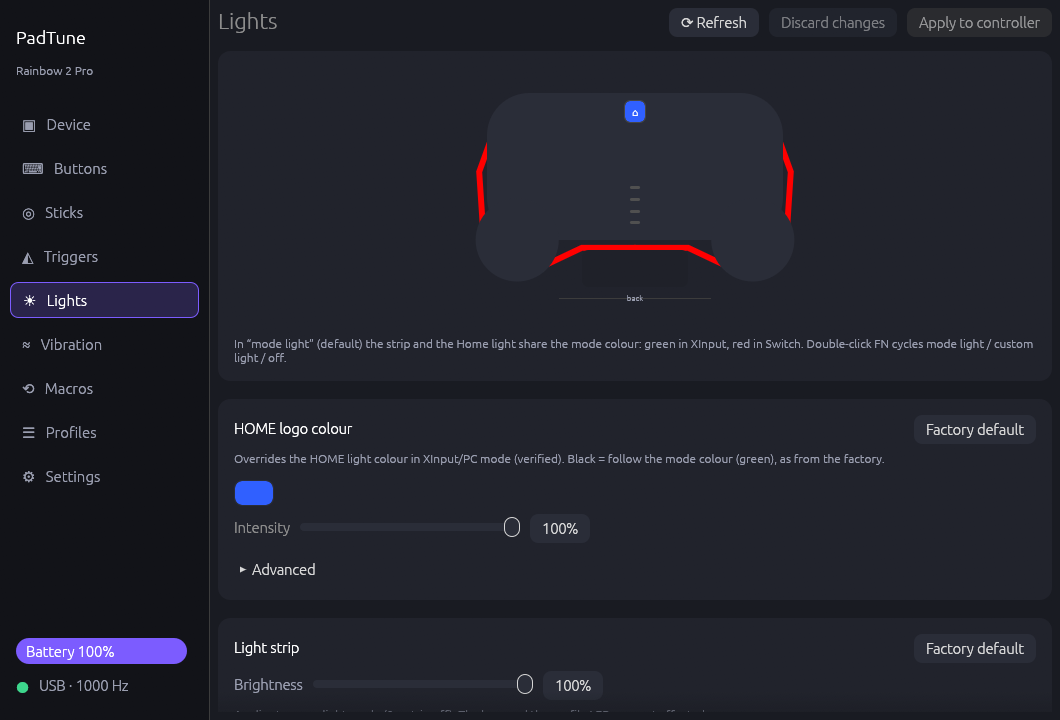
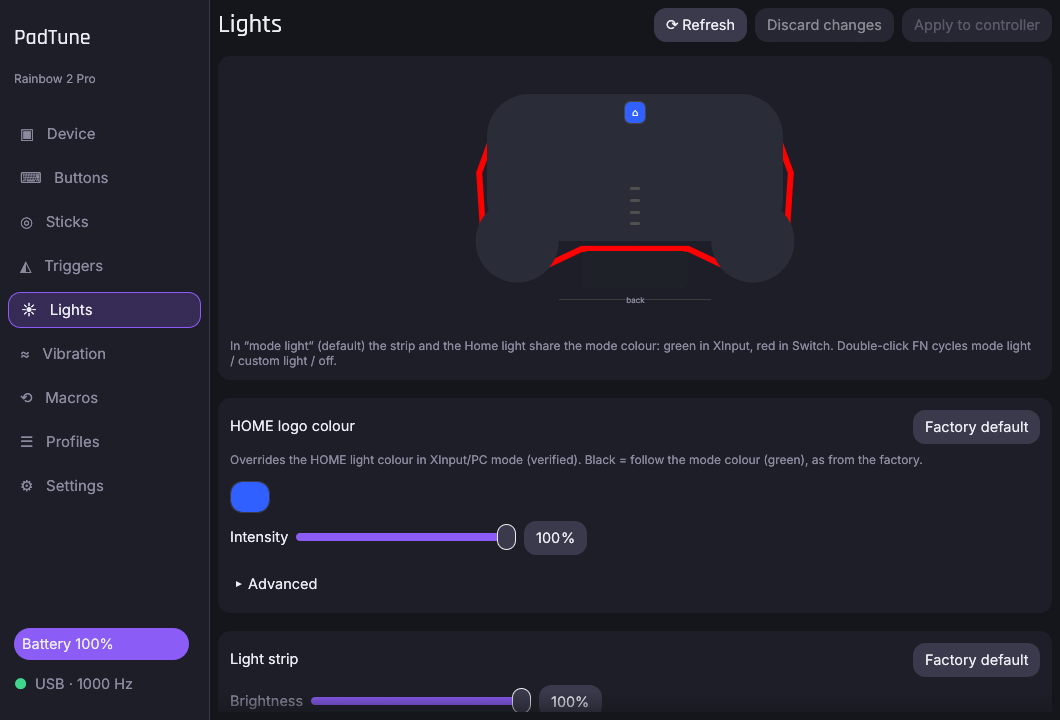
release: v0.2.0

diff --git a/README.it.md b/README.it.md
@@ -24,7 +24,7 @@ l'interfaccia di configurazione del controller, quindi ogni impostazione resta
 | **Dispositivo** | Modello, firmware, seriale, batteria, cavo USB o dongle 2.4G, test tasti (tutti, anche M1/M2, FN e i tasti frontali), backup/ripristino, impostazioni di fabbrica. |
 | **Profili** | Salva profili con nome e applicali con un clic — vengono inviate solo le parti cambiate. |
 | **Funzioni del controller** | Cosa fa ogni scorciatoia integrata (TURBO, Mapping, MACRO, Configuration, combinazioni con FN, calibrazione, cambio modalità), dal manuale ufficiale. |
-| **Desktop** | Icona nella barra di sistema, avvio con il sistema, istanza unica, inglese e italiano. |
+| **Desktop** | Icona nella barra di sistema, avvio con il sistema, istanza unica, inglese e italiano, segue il tema di sistema (chiaro e scuro). |
 
 ## Compatibilità
 
@@ -106,6 +106,7 @@ padtune monitor 30                # test tasti: stampa ogni pressione
 | `PADTUNE_CONFIG_DIR` | Usa un'altra cartella per impostazioni e profili |
 | `PADTUNE_STATE` | Usa un altro file di stato (ultima configurazione applicata) |
 | `PADTUNE_DEMO=1` | GUI con un Rainbow 2 Pro simulato, senza accesso USB |
+| `PADTUNE_THEME=light\|dark` | Forza il tema chiaro o scuro invece di seguire il sistema |
 | `PADTUNE_SCREENSHOTS=cartella` | Salva uno screenshot di ogni scheda in ogni lingua, poi esce |
 | `PADTUNE_TEST_CLOSE_AFTER=s` | Chiude la finestra dopo `s` secondi (test della barra di sistema) |
 

diff --git a/README.md b/README.md
@@ -24,7 +24,7 @@ works on any PC or console afterwards.
 | **Device** | Model, firmware, serial, battery, USB cable vs 2.4G dongle, key test (every button including M1/M2, FN and the front keys), backup/restore, factory settings. |
 | **Profiles** | Save named profiles and apply them with one click — only the parts that changed are sent. |
 | **Controller functions** | What every on-board shortcut does (TURBO, Mapping, MACRO, Configuration, FN combos, calibration, mode switch), from the official manual. |
-| **Desktop** | Tray icon, start with the system, single instance, English and Italian. |
+| **Desktop** | Tray icon, start with the system, single instance, English and Italian, follows the system theme (light and dark). |
 
 ## Compatibility
 
@@ -105,6 +105,7 @@ padtune monitor 30                # key test: prints every button press
 | `PADTUNE_CONFIG_DIR` | Use another settings/profiles directory |
 | `PADTUNE_STATE` | Use another state file (last applied configuration) |
 | `PADTUNE_DEMO=1` | GUI with a built-in Rainbow 2 Pro, no USB access |
+| `PADTUNE_THEME=light\|dark` | Force the light or dark theme instead of following the system |
 | `PADTUNE_SCREENSHOTS=dir` | Save a screenshot of every tab in every language, then exit |
 | `PADTUNE_TEST_CLOSE_AFTER=s` | Close the window after `s` seconds (tray behaviour tests) |
 

diff --git a/CHANGELOG.md b/CHANGELOG.md
@@ -1,5 +1,26 @@
 # Changelog
 
+## [0.2.0] - 2026-11-08
+
+### Added
+- Light theme: the GUI follows the system theme, with "Carta calda" (light)
+  and "Viola notte" (dark, the app's violet identity). `PADTUNE_THEME=light|dark`
+  forces one.
+- Embedded fonts (SIL Open Font License): Inter for text and controls,
+  Rajdhani for titles, so the interface looks the same on every system.
+
+### Changed
+- Interface polish: consistent rounded corners (rows and cards 12 px, menus 16,
+  window 20, pill-shaped chips), taller rows (32 px), slider rails, plots and
+  the trigger bar on the track colour, status colours readable in both themes.
+- Lower idle CPU use: the GUI's per-frame "modified?" check is about 15×
+  cheaper and the device thread polls 13× less often while the key test is off.
+
+### Verified on hardware
+- Rainbow 2 Pro (ZKM 6): request round trips measured before and after the
+  internal refactor with `examples/bench_io.rs` — unchanged, every request is
+  answered on the controller's fixed 40 ms tick.
+
 ## [0.1.2] - 2026-10-22
 
 ### Fixed
